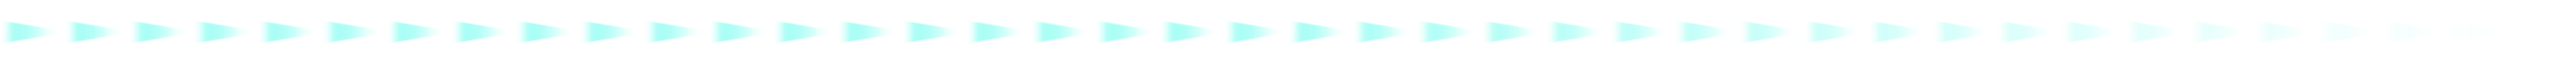
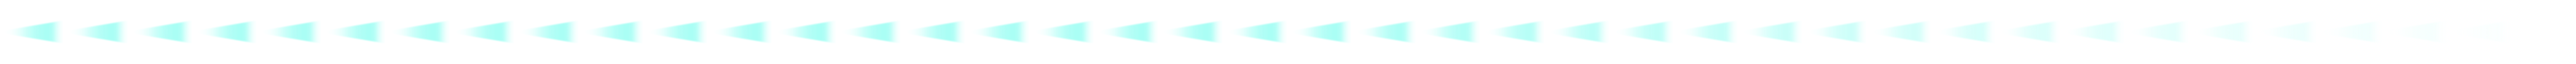
Correct boost trail orientation, tiny speed change

Changed region(s): [[0.0, 0.3438, 0.8438, 0.6562]]

diff --git a/Game.Engine/wwwroot/js/models/textureMap.scss b/Game.Engine/wwwroot/js/models/textureMap.scss
@@ -374,7 +374,7 @@ thruster_yellow {
   animation-speed: 0.85;
   size: 4;
   offset: {
-    x: -10;
+    x: -20;
     y: 0;
   }
   tile: {

diff --git a/Game.API.Common/Models/Hook.cs b/Game.API.Common/Models/Hook.cs
@@ -49,7 +49,7 @@
                         5.525f, 5.511f, 5.497f, 5.484f, 5.470f, 5.457f, 5.444f, 5.432f, 5.419f, 5.407f, // 81 - 90 size
                         5.394f, 5.382f, 5.370f, 5.359f, 5.347f, 5.335f, 5.324f, 5.312f, 5.300f, 5.289f // 91 - 100 size
                     },
-                    BaseThrustConverter = 0.002f,
+                    BaseThrustConverter = 0.0021f,
 
                     Drag = 0.895f,
                     DragBoost = 0.935f,
